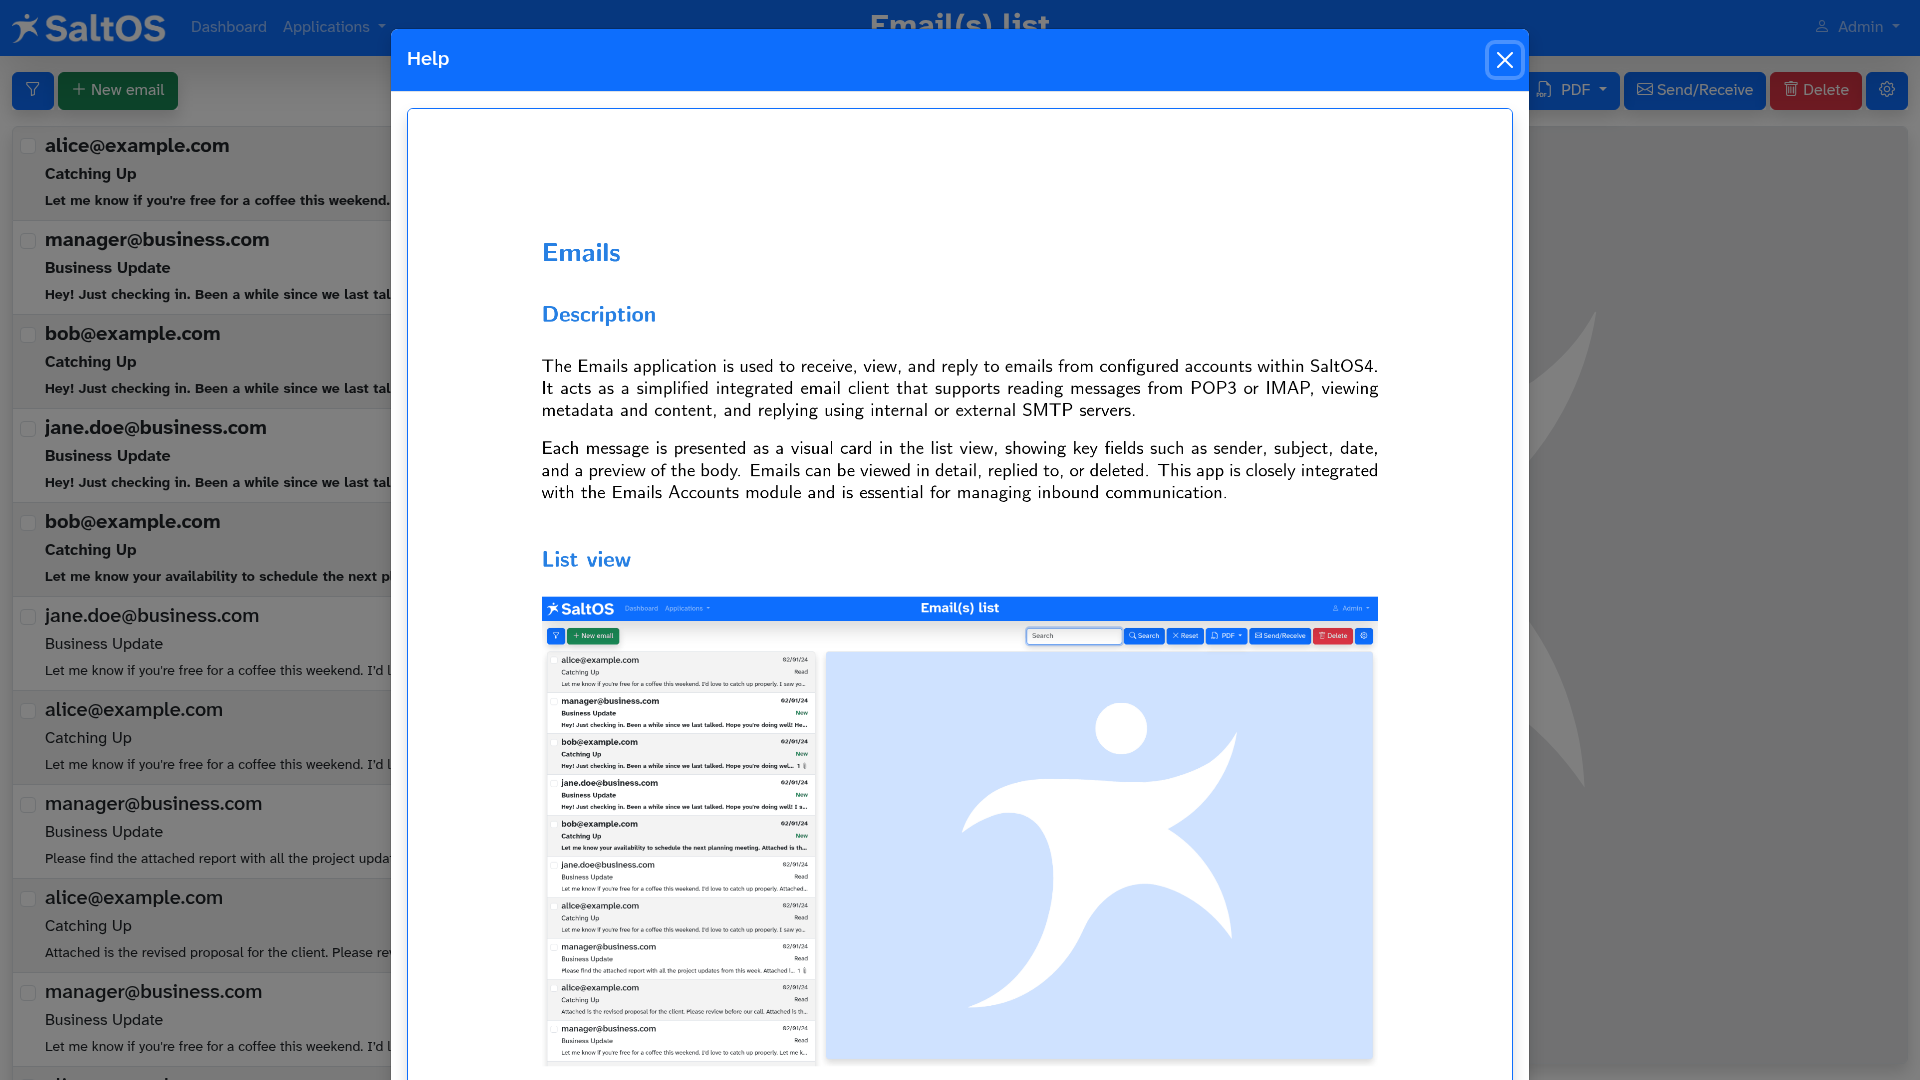
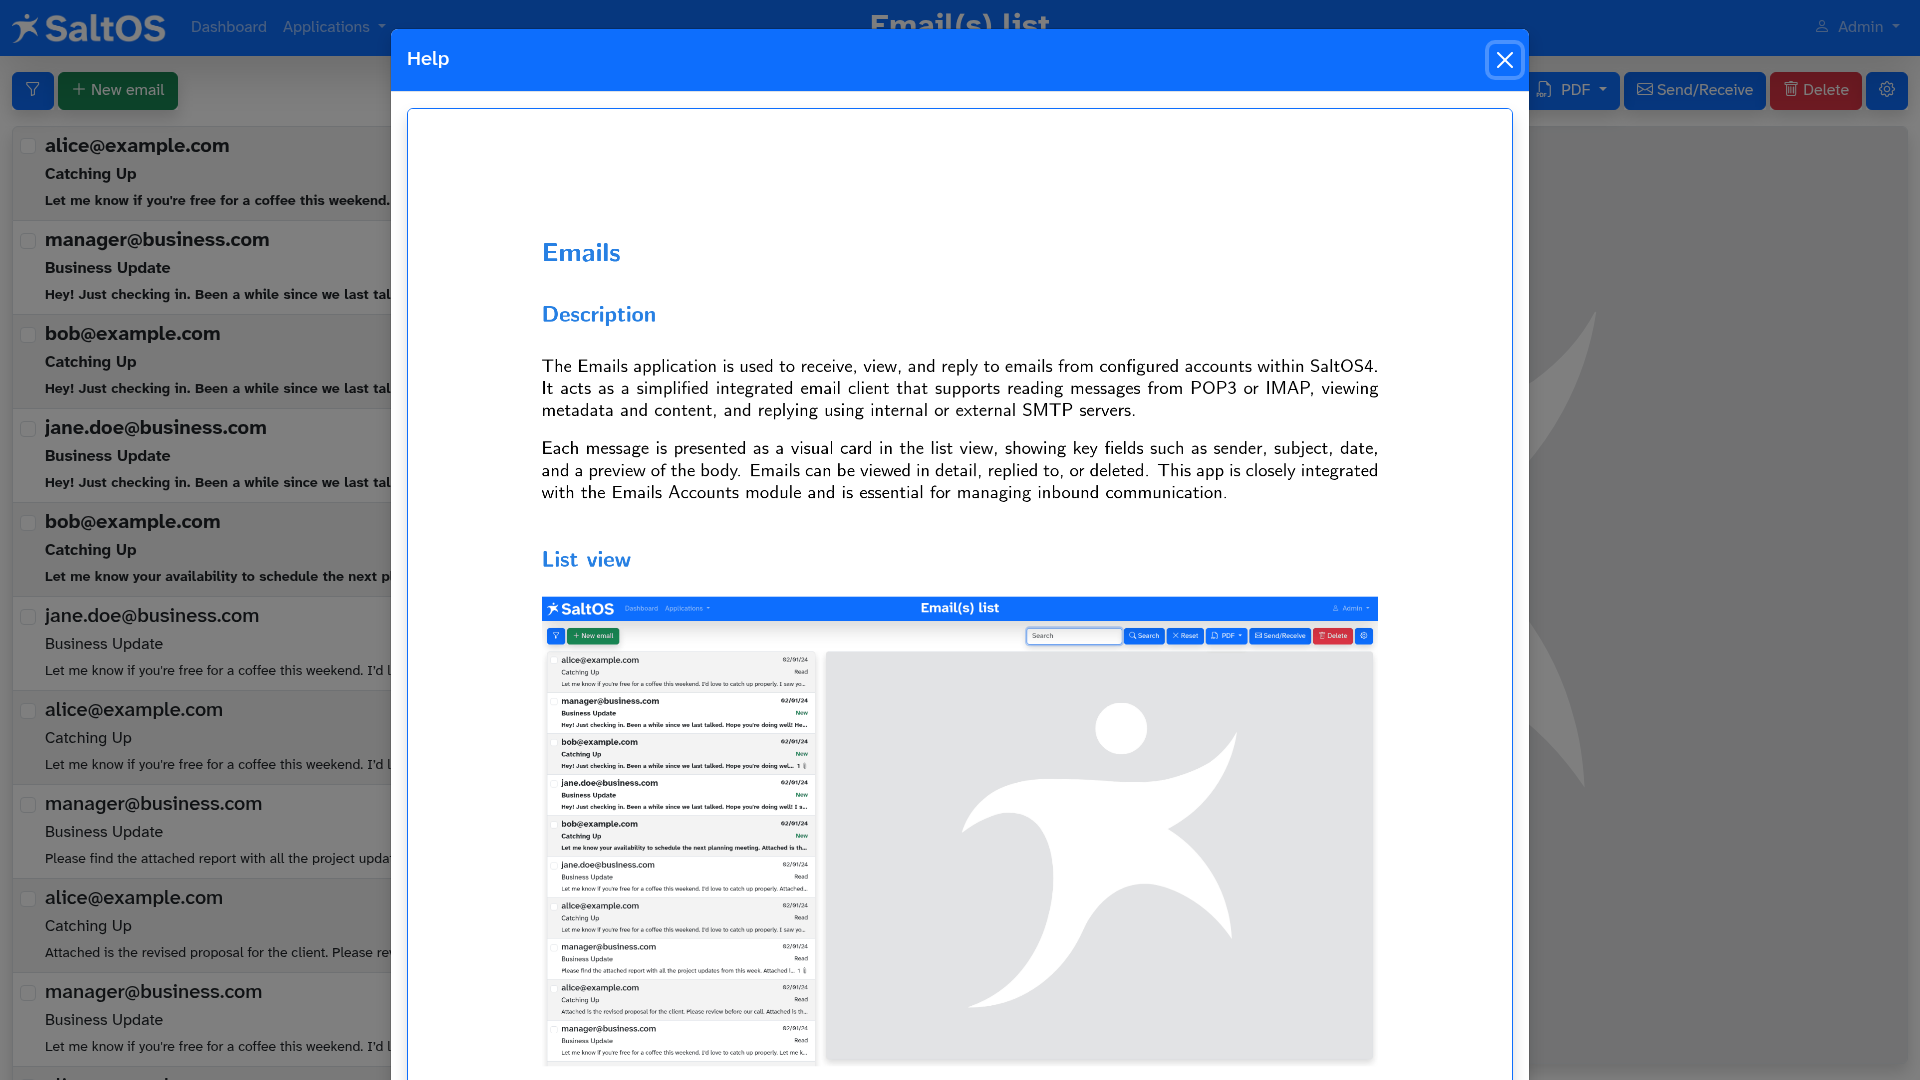
Some fixes related to previous commits

Changed region(s): [[0.4062, 0.5806, 0.7188, 0.9778]]

diff --git a/ujest/test_bootstrap.js b/ujest/test_bootstrap.js
@@ -129,7 +129,9 @@ describe('Bootstrap', () => {
             await page.waitForFunction(id => document.getElementById(id).excel, timeout, id);
         } else if (field.type == 'chartjs') {
             await mypause(page, 1000);
-        } else if (['gallery', 'image'].includes(field.type)) {
+        } else if (field.type == 'gallery') {
+            await mypause(page, 500);
+        } else if (field.type == 'image') {
             await mypause(page, 100);
         } else if (field.type == 'pdfjs') {
             await page.waitForFunction(() => { return typeof pdfjsLib == 'object'; }, timeout);
